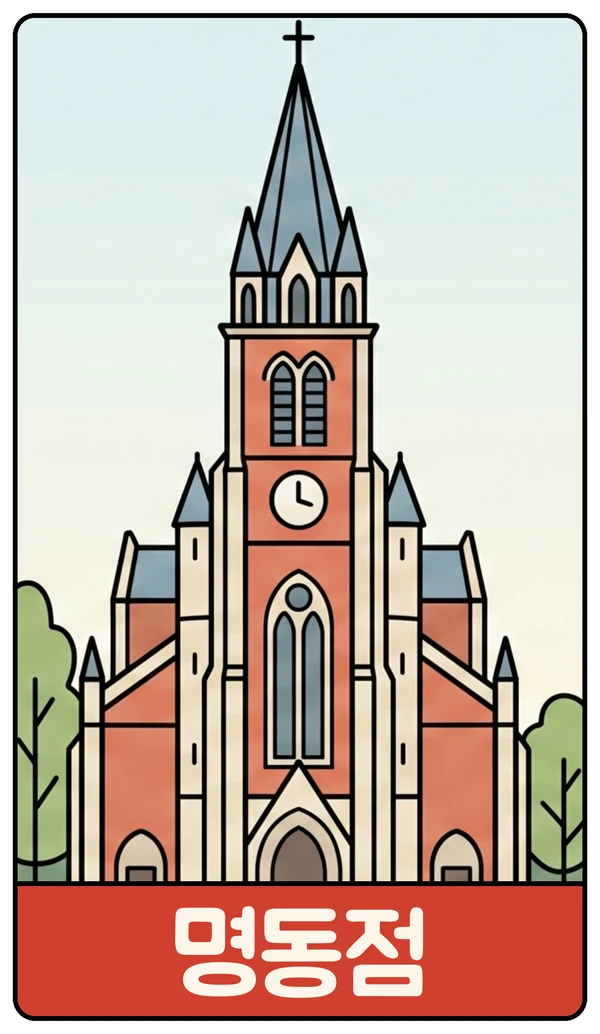
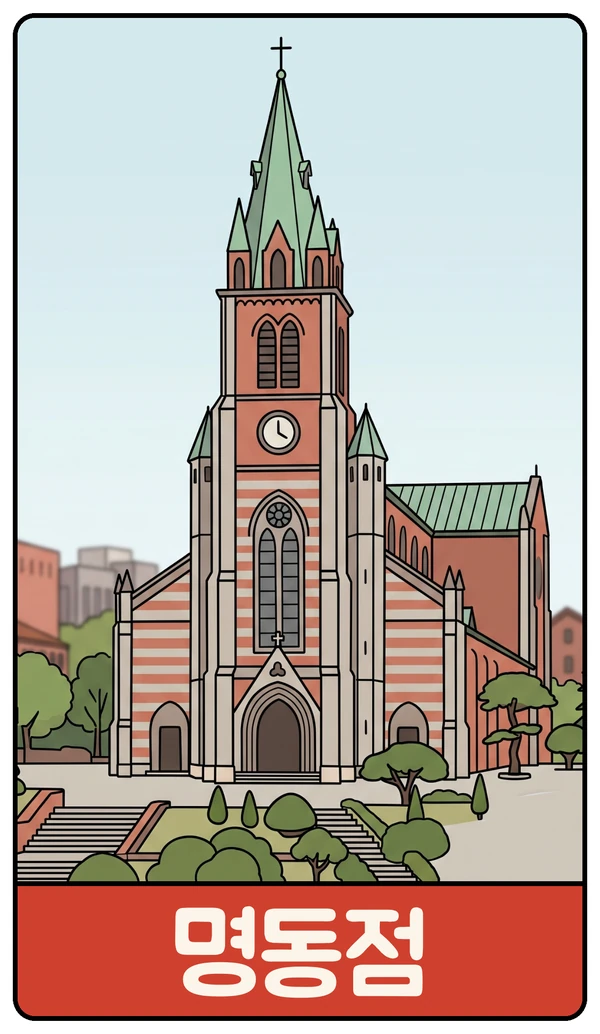
feat: 제주점·안산점 발도장 스티커 추가 + 명동점 개선
- 제주점(방파제 등대)·안산점(Station-A 기차) 스티커 추가 (make_stickers 파이프라인)
- 명동점 스티커 개선본으로 교체 (초록 첨탑·줄무늬 벽돌·고딕 디테일)
- STAMP_IMGS 2줄 추가, script.js?v=221→222 → 13곳 스티커 전부 완성

diff --git a/index.html b/index.html
@@ -501,7 +501,7 @@
   </div>
 </div>
 
-<script src="script.js?v=220"></script>
+<script src="script.js?v=222"></script>
 
 <!-- Cloudflare Web Analytics --><script type='module' src='https://static.cloudflareinsights.com/beacon.min.js' data-cf-beacon='{"token": "d7c0ac8f66544156bca23d2c7f84c961"}'></script><!-- End Cloudflare Web Analytics -->
 </body>

diff --git a/script.js b/script.js
@@ -1453,6 +1453,8 @@
     '부천점': 'assets/stickers/부천점.webp',
     '부산역점': 'assets/stickers/부산역점.webp',
     '대구점': 'assets/stickers/대구점.webp',
+    '제주점': 'assets/stickers/제주점.webp',
+    '안산점': 'assets/stickers/안산점.webp',
   };
   let stampData = { version: 1, stamps: {} };
   try {
